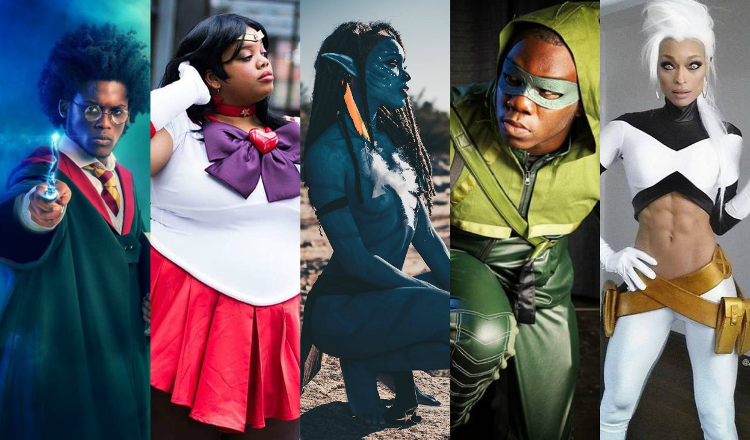
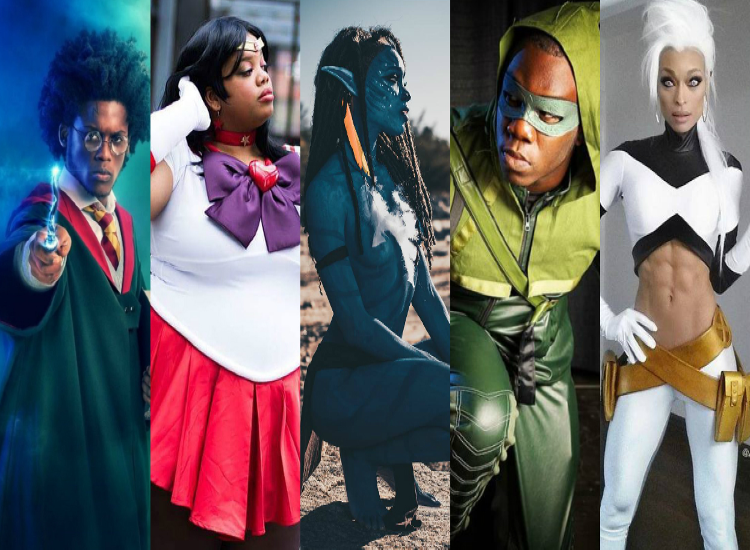
final updates, resizing images

diff --git a/portfolio.html b/portfolio.html
@@ -26,9 +26,11 @@
 
         <!-- Start main navigation links -->
         <div class="navbar">
-
-            <a class="nav-link" href="index.html">About</a>
-            <a class="nav-link" href="portfolio.html">       Portfolio</a>
+            
+            <a class="nav-link" href="index.html">About</a> 
+            <a class="nav-link" href="#">|</a>
+            <a class="nav-link" href="portfolio.html">Portfolio</a>
+            <a class="nav-link" href="#">|</a>
             <a class="nav-link" href="contact.html">Contact</a>
     
         </div>
@@ -37,9 +39,9 @@
     </nav> 
     <!-- End Navbar -->
 
-    <div class="container m-lg-4 m-md-4 m-sm-2">
+    <div class="container">
 
-        <div class="wrapper ">
+        <div class="wrapper border m-lg-4 m-md-4 m-sm-2">
 
             <div class="content m-5">
     
@@ -53,11 +55,11 @@
                     <!-- Column 1 of 6 -->
                     <div class="col-lg-4 col-md-6 col-sm-12 my-1">
 
-                        <div class="card card-hov bg-white text-white">
+                        <div class="card card-hov bg-white text-white mh-100 mw-100">
 
-                            <img class="card-img" src="assets/images/bcsp.png" alt="Cosplay Images" style="max-width: 100%; min-height: 180px;">
+                            <img class="card-img" src="assets/images/bcsp.png" alt="Cosplay Images" >
 
-                            <div class="card-img-overlay d-flex justify-content-center align-items-end" style="max-width: 280px; height: auto;">
+                            <div class="card-img-overlay d-flex justify-content-center align-items-end">
 
                                 <p class="card-text p-2">Cosplay Outfit Builder</p>
 
@@ -72,11 +74,11 @@
                 
                         <div class="card card-hov bg-white text-white">
                     
-                            <img class="card-img" src="assets/images/videogames.png" alt="Cosplay Images" style="max-width: 100%; max-height: 100%;">
+                            <img class="card-img mw-100 mh-100" src="assets/images/videogames.png" alt="Game Controls Image">
                     
-                            <div class="card-img-overlay d-flex justify-content-center align-items-end" style="max-width: 280px; min-height: 190px;">
+                            <div class="card-img-overlay d-flex justify-content-center align-items-end">
                     
-                                <p class="card-text p-2">Game Matcher (All Skill Levels)</p>
+                                <p class="card-text p-2">Game Matcher</p>
 
                             </div>
                 
@@ -89,9 +91,9 @@
                 
                         <div class="card card-hov bg-white text-white">
                         
-                            <img class="card-img" src="assets/images/kswords.jpg" alt="Cosplay Images" style="max-width: 100; max-height: 180px;">
+                            <img class="card-img mw-100 mh-100" src="assets/images/kswords.jpg" alt="Kirk and Spock Image" >
                         
-                            <div class="card-img-overlay d-flex justify-content-center align-items-end" style="max-width: 280px; min-height: 180px;">
+                            <div class="card-img-overlay d-flex justify-content-center align-items-end" >
                         
                                 <p class="card-text p-2">Star Trek Lipsum</p>
     
@@ -104,14 +106,13 @@
                     <!-- Column 4 of 6 -->
                     <div class="col-lg-4 col-md-6 col-sm-12 my-1">
                 
-                        <div class="card card-hov bg-white text-white">
+                        <div class="card card-hov bg-white text-white mw-100 mh-100">
                         
-                            <img class="card-img" src="assets/images/virtualtank.png" alt="Cosplay Images" style="max-width: 100%; min-height: 180px;">
+                            <img class="card-img img-reponsive" src="assets/images/virtualtank.png" alt="Fish Tank Image">
                         
-                            <div class="card-img-overlay d-flex justify-content-center align-items-end" style="max-width: 280px; min-height: 190px;">
+                            <div class="card-img-overlay d-flex justify-content-center align-items-end">
                         
-                                <p class="card-text p-2">Virtual Fish Tank Builder</p>
-                                <p class="card-text p-2">New 4.0 with Sharks!</p>
+                                <p class="card-text p-2">Virtual Fish Tank Builder<br>*New v3.0 with Sharks!*</p>
     
                             </div>
                     
@@ -124,9 +125,9 @@
                 
                         <div class="card card-hov bg-white text-white">
                             
-                            <img class="card-img" src="assets/images/gardening.jpg" alt="Cosplay Images" style="max-width: 100%; min-height: 180px;">
+                            <img class="card-img" src="assets/images/gardening.jpg" alt="Hand Holding Plant Image">
                             
-                            <div class="card-img-overlay d-flex justify-content-center align-items-end" style="max-width: 280px; min-height: 190px;">
+                            <div class="card-img-overlay d-flex justify-content-center align-items-end">
                             
                                 <p class="card-text p-2">House Plant Planner</p>
         
@@ -139,14 +140,13 @@
                     <!-- Column 6 of 6 -->
                     <div class="col-lg-4 col-md-6 col-sm-12 my-1">
                     
-                        <div class="card card-hov bg-white text-white">
+                        <div class="card card-hov bg-white text-white mw-100 mh-100">
                                 
-                            <img class="card-img" src="assets/images/mind.png" alt="Cosplay Images" style="max-width: 100%; min-height: 180px;">
+                            <img class="card-img" src="assets/images/mind.png" alt="Two People Talking Image">
                                 
-                            <div class="card-img-overlay d-flex justify-content-center align-items-end" style="max-width: 280px; min-height: 190px;">
+                            <div class="card-img-overlay d-flex justify-content-center align-items-end">
                                 
-                                <p class="card-text p-2">Small Talk Generator</p>
-                                <p class="card-text p-2">Introvert Edition</p>
+                                <p class="card-text p-2">Small Talk Generator<br>*Introvert Edition*</p>
             
                             </div>
                             

diff --git a/index.html b/index.html
@@ -27,8 +27,11 @@
 
         <!-- Start main navigation links -->
         <div class="navbar">
-            <a class="nav-link" href="index.html">About</a><a class="nav-link" href="portfolio.html">Portfolio</a><a class="nav-link" href="contact.html">Contact</a>
-        
+            <a class="nav-link" href="index.html">About</a> 
+            <a class="nav-link" href="#">|</a>
+            <a class="nav-link" href="portfolio.html">Portfolio</a><a class="nav-link" href="#">|</a>
+            <a class="nav-link" href="contact.html">Contact</a>
+    
         </div>
         <!-- End main navigation links-->    
 
@@ -40,9 +43,9 @@
     <div class="container">
          
         <!-- Start Wrapper -->
-        <div class="wrapper">
+        <div class="wrapper border m-lg-5 m-md-5 m-sm-2">
 
-            <div class="content m-lg-5 m-md-5 m-sm-4 m-xs-3">
+            <div class="content m-3">
                 
                 <!-- Start row 1 of 2 -->
                 <div class="row"> 
@@ -62,7 +65,7 @@
                                 </div>
 
                             <!-- Start Sub Column 2 of 2 -->
-                            <div class="col-lg-9 col-md-9 col-sm-12 d-flex flex-wrap">
+                            <div class="col-lg-9 col-md-9 col-sm-12">
 
                                 <p>I am developer, business analyst and geekdom enthusiast seeking opportunities for new projects!
                                 </p>

diff --git a/contact.html b/contact.html
@@ -27,9 +27,9 @@
         <!-- Start main navigation links -->
         <div class="navbar">
 
-            <a class="nav-link" href="index.html">About</a> |
-            <a class="nav-link" href="portfolio.html">Portfolio</a>
-            |
+            <a class="nav-link" href="index.html">About</a> 
+            <a class="nav-link" href="#">|</a>
+            <a class="nav-link" href="portfolio.html">Portfolio</a><a class="nav-link" href="#">|</a>
             <a class="nav-link" href="contact.html">Contact</a>
         
         </div>
@@ -42,7 +42,7 @@
     <div class="container">
         
         <!-- Start Wrapper -->
-        <div class="wrapper m-lg-5 m-md-5 m-sm-2">
+        <div class="wrapper border m-lg-5 m-md-5 m-sm-2">
 
             <!-- Start Content -->
             <div class="content m-5">
@@ -59,7 +59,7 @@
                         </div>
 
 
-                        <form class="p-4">
+                        <form class="p-3">
 
                             <div class="form-group">
                                 <label for="name">Name</label>
@@ -109,5 +109,5 @@
         </div>
     
     </container>
-    
+
 </body>

diff --git a/assets/css/style.css b/assets/css/style.css
@@ -1,5 +1,5 @@
 
-a:visited {
+a, a:visited {
     color: #66b2b2;
 }
 
@@ -13,18 +13,13 @@ a:hover {
 }
 
 .wrapper {
-    border: 1px solid #dddddd;
+
     background-color: #ffffff;
 }
 
 .sectionheading {
     border-bottom: 3px solid #cccccc;
     color: #66b2b2;
-}
-
-.card-title {
-    color:#ffffff;
-    background-color: #4aaaa5;
 }
 
 .card-text {
